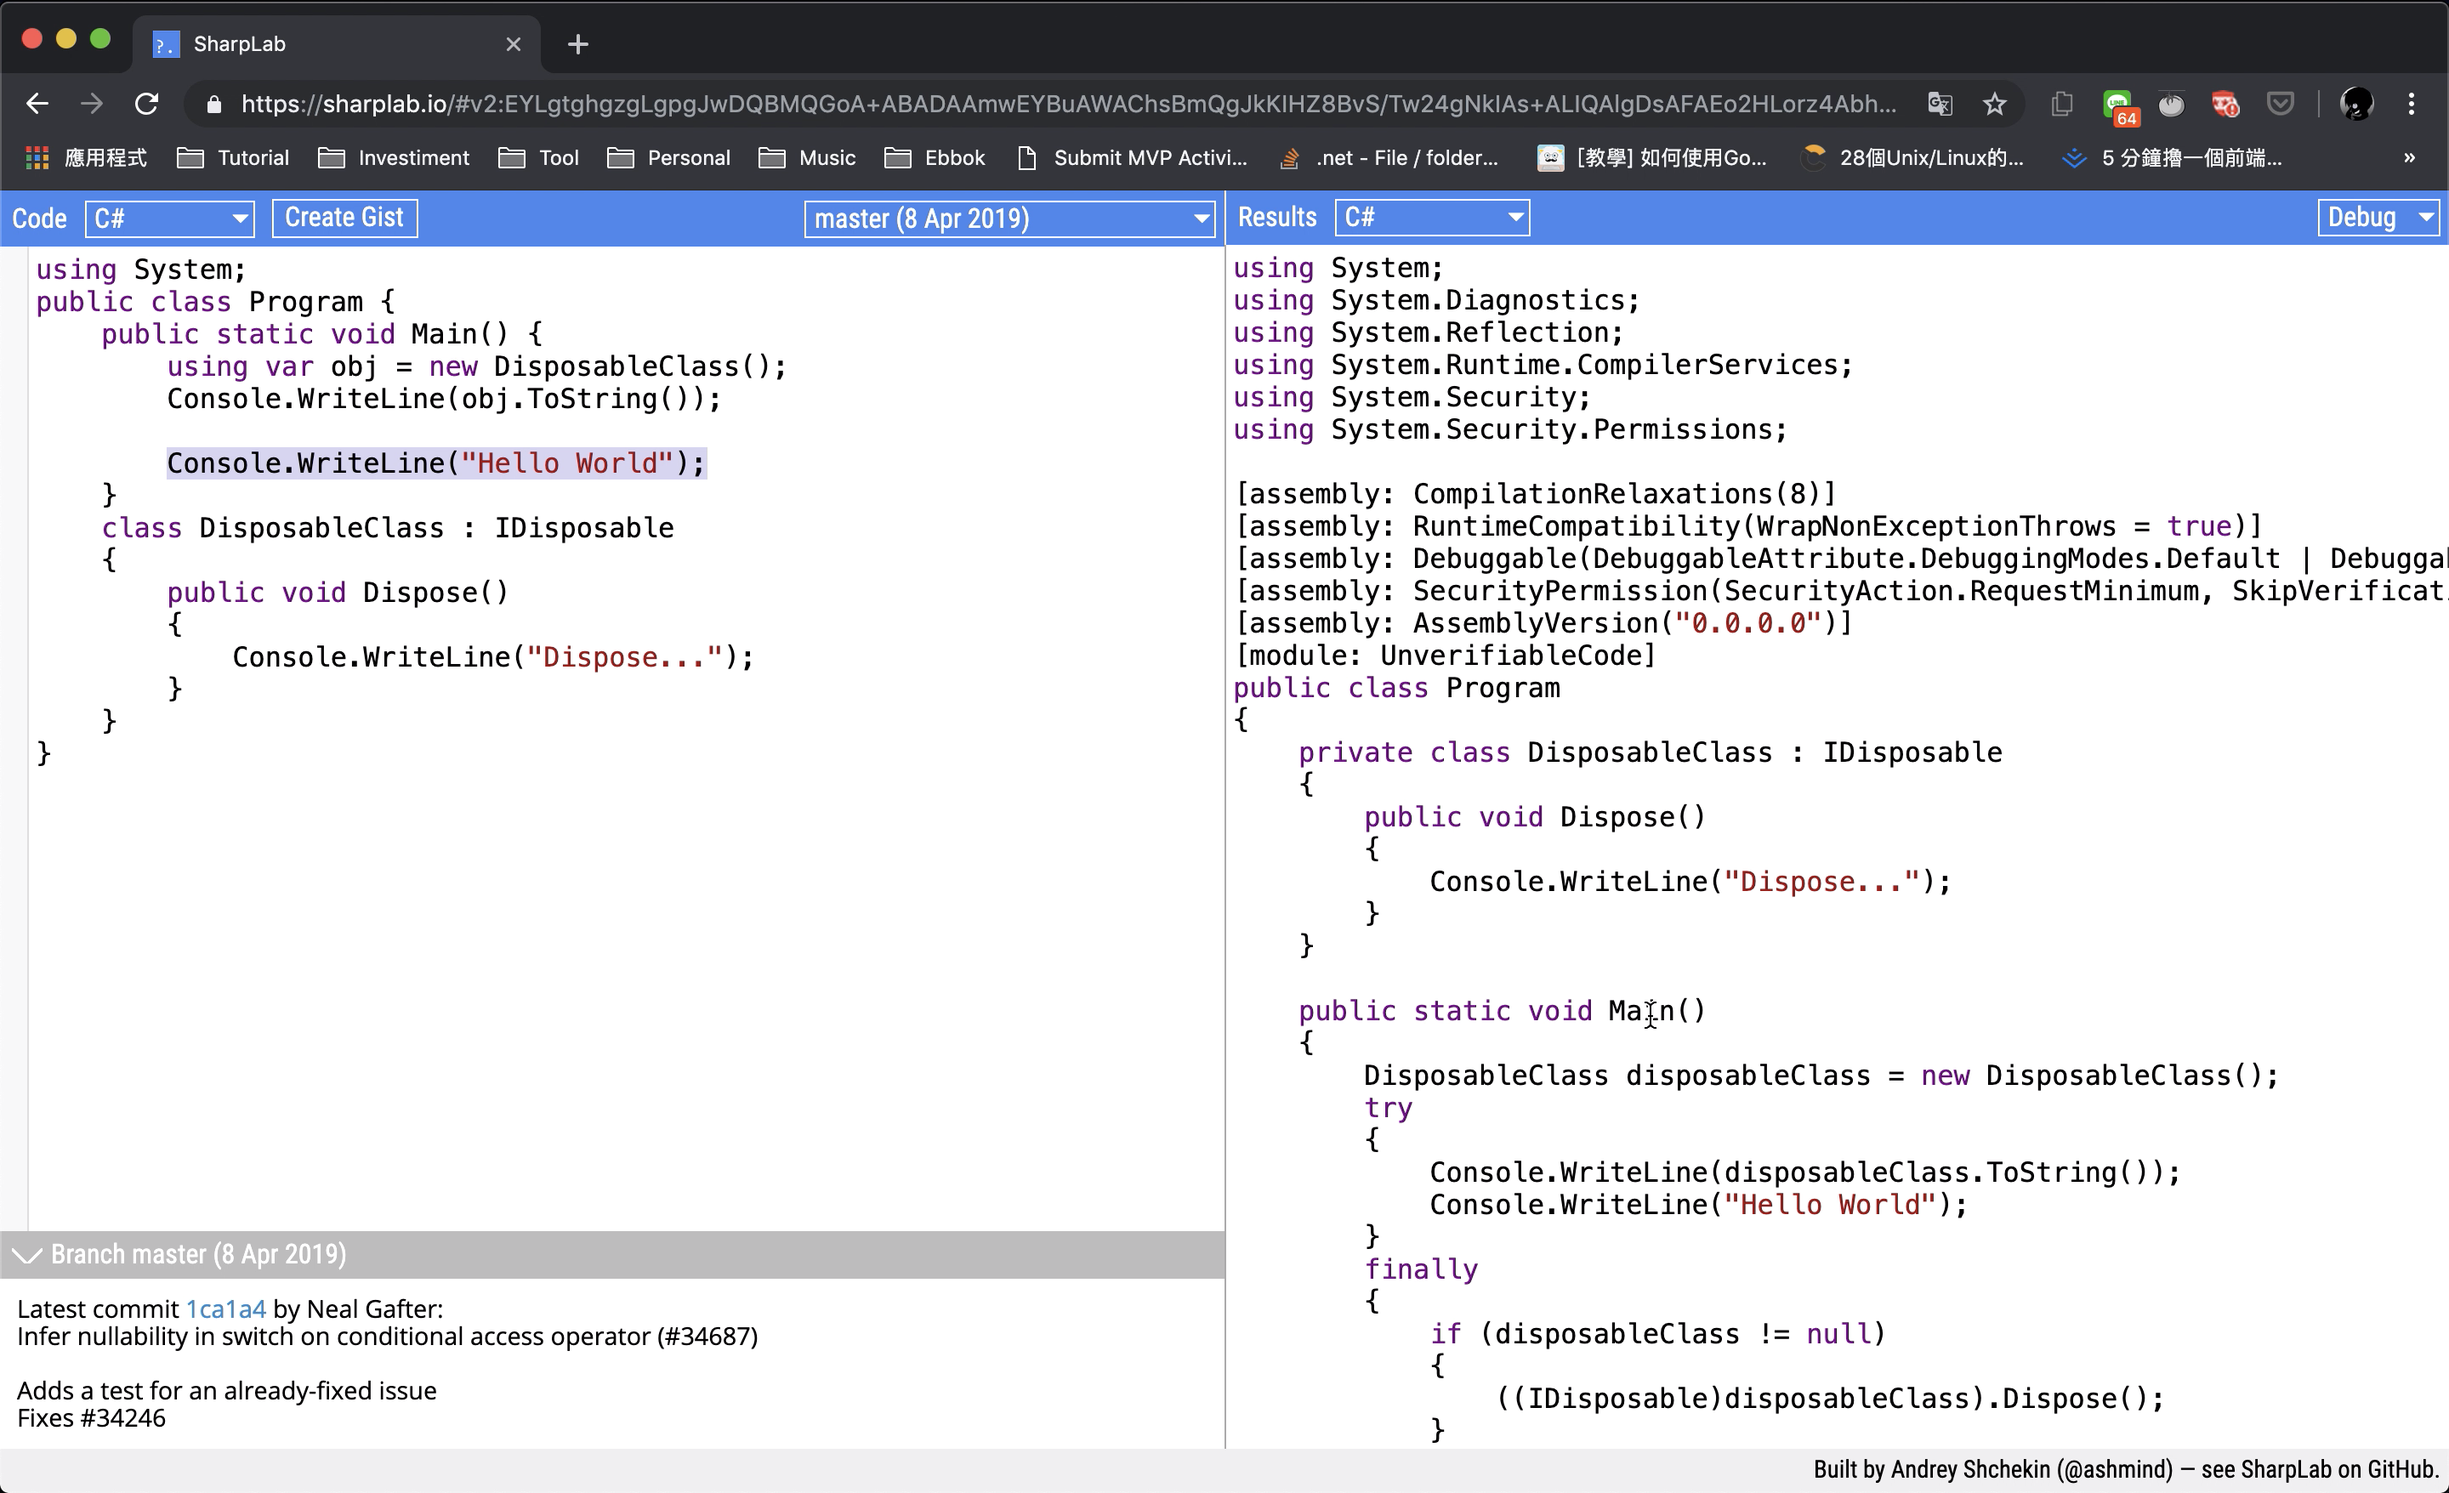
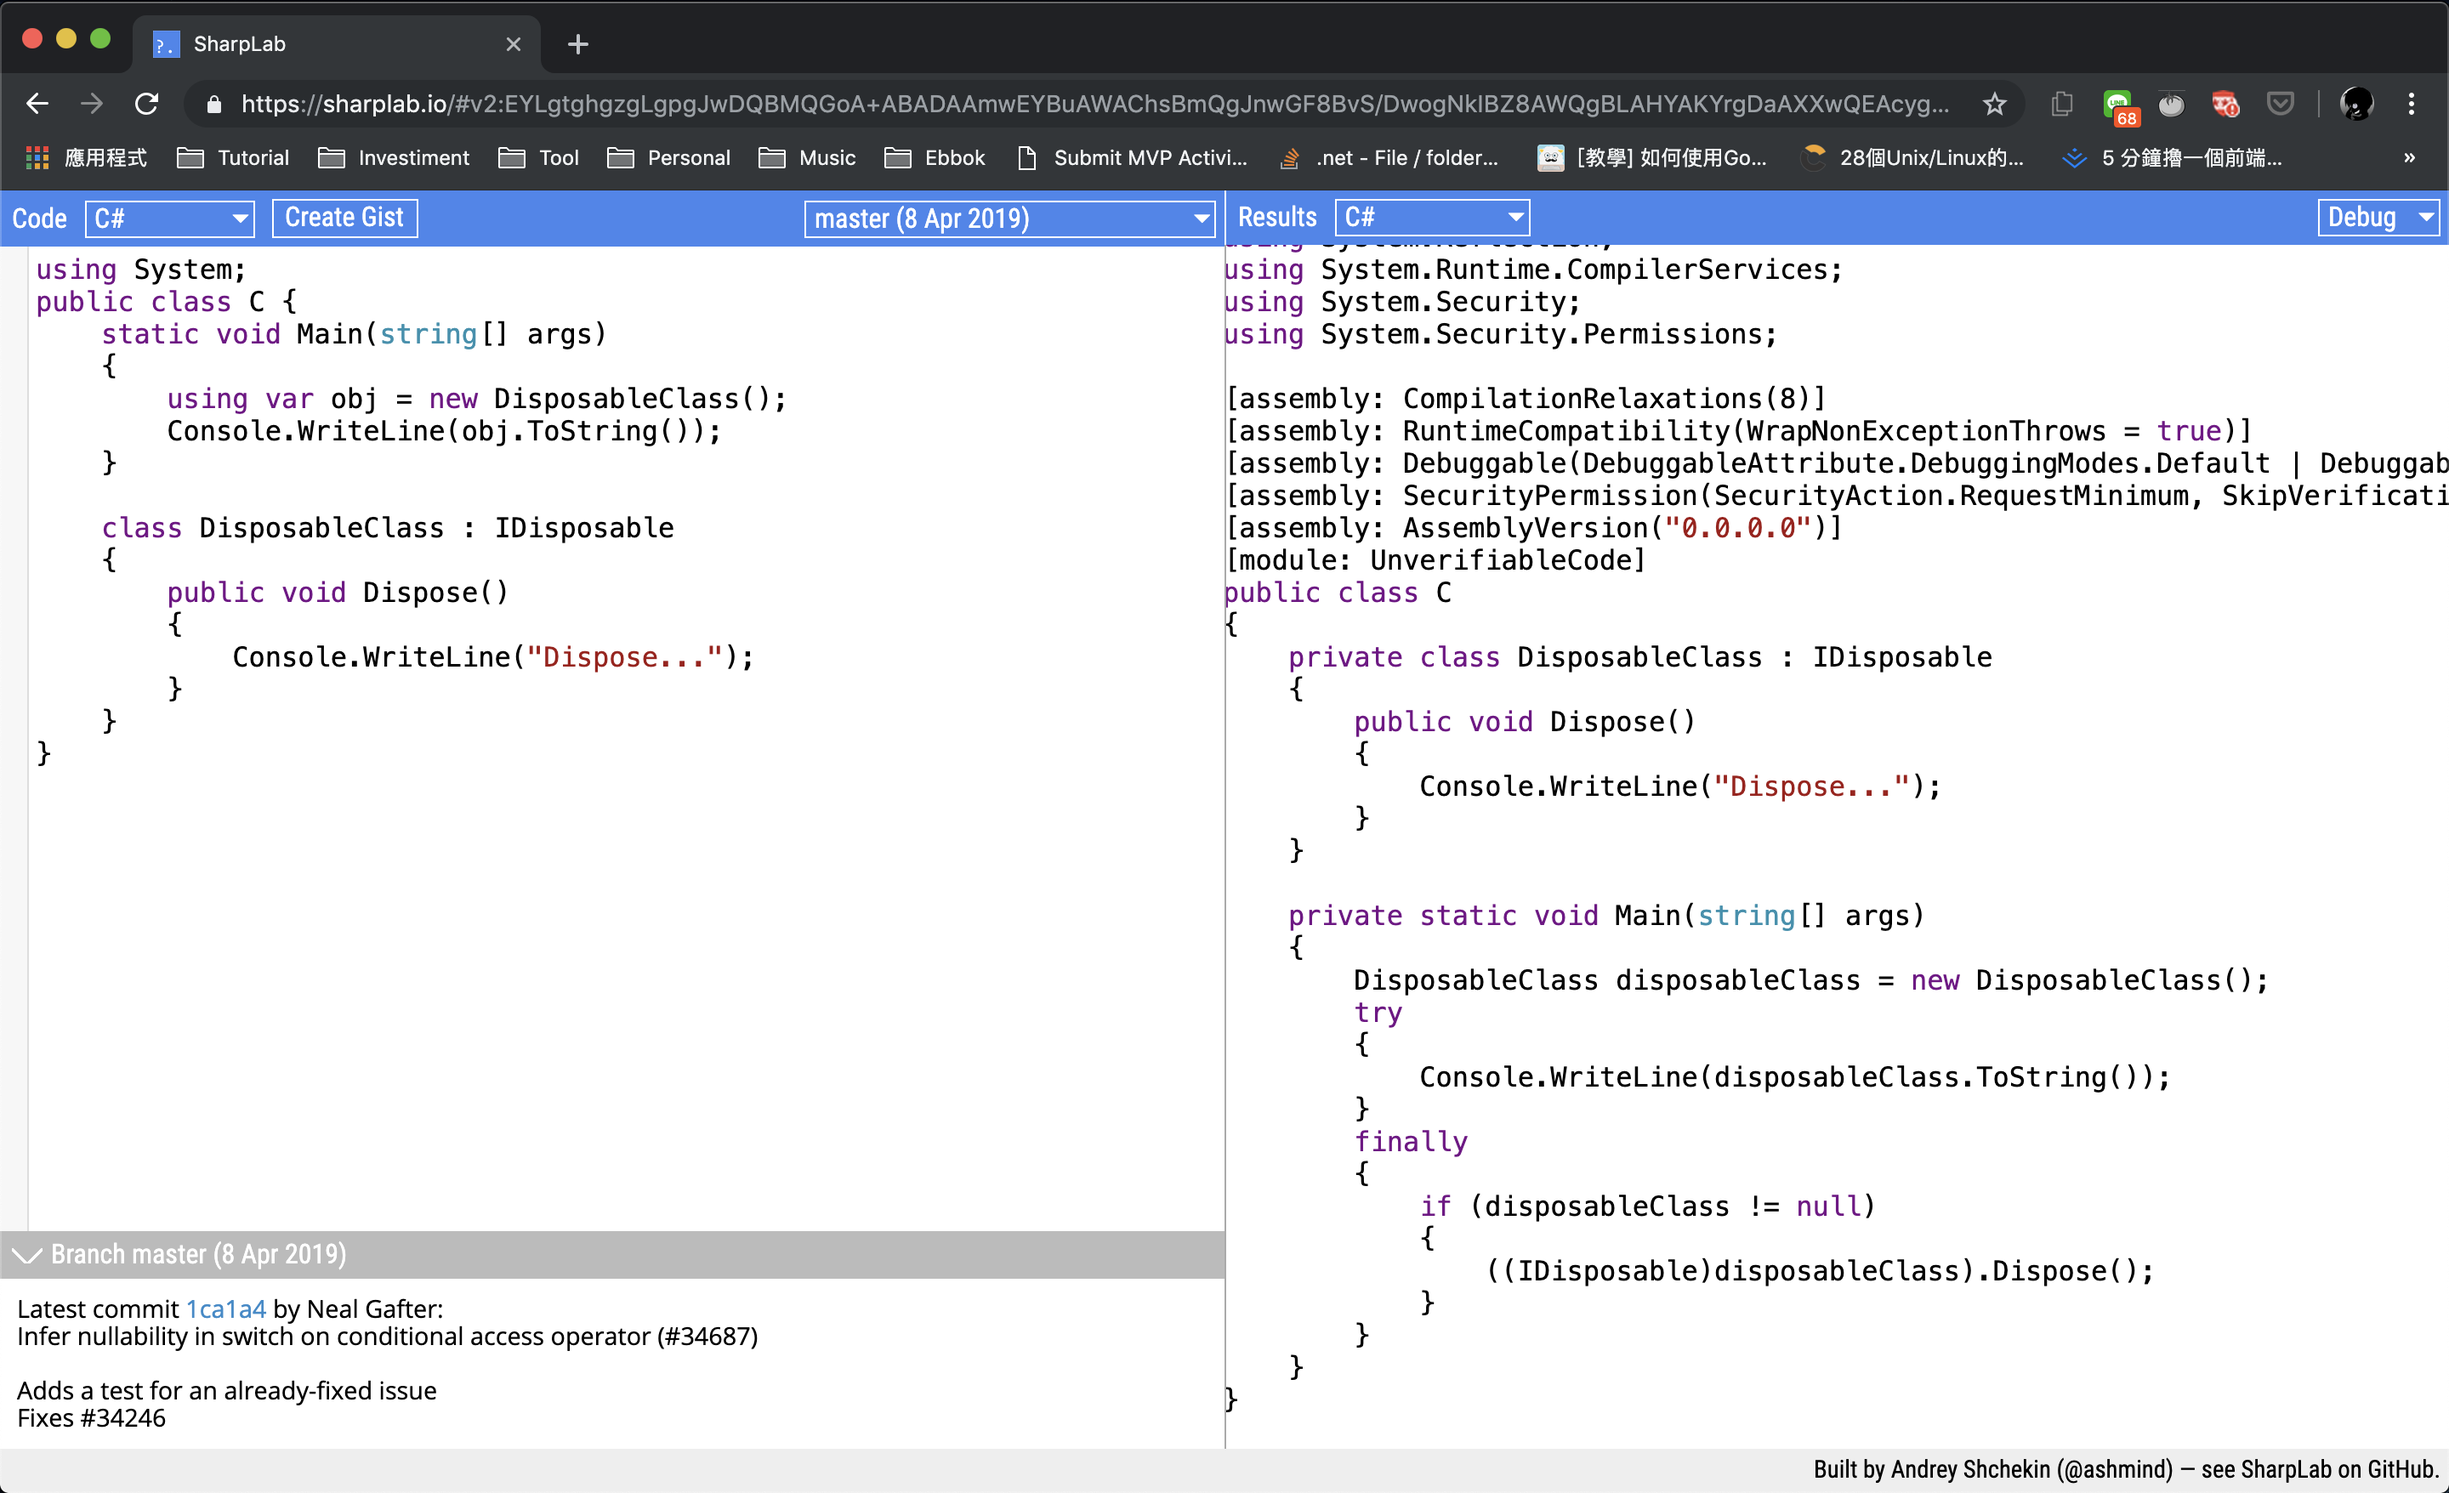
Adjust post

diff --git a/source/_posts/C-8-0-Using-declarations.md b/source/_posts/C-8-0-Using-declarations.md
@@ -99,6 +99,25 @@ namespace UsingDeclarations
 
 該語法是利用編譯器做成的語法糖，程式在編譯時編譯器會將 Using declarations 的語法編譯成 try/finally 區塊，在 finally 區塊中調用 Dispose 方法做釋放的動作。  
 
+```C#
+...
+DisposableClass disposableClass = new DisposableClass();
+try
+{
+    Console.WriteLine(disposableClass.ToString());
+}
+finally
+{
+    if (disposableClass != null)
+    {
+        ((IDisposable)disposableClass).Dispose();
+    }
+}
+...
+```
+
+{% asset_img 3.png %}
+
 <br/>
 
 
@@ -127,7 +146,7 @@ finally
 ...
 ```
 
-{% asset_img 3.png %}
+{% asset_img 4.png %}
 
 <br/>
 
@@ -183,7 +202,7 @@ namespace UsingDeclarations
 
 運行後可以看到會忠實的進行兩次物件釋放動作。  
 
-{% asset_img 4.png %}
+{% asset_img 5.png %}
 
 <br/>
 
@@ -209,7 +228,7 @@ finally
 ...
 ```
 
-{% asset_img 5.png %}
+{% asset_img 6.png %}
 
 <br/>
 
